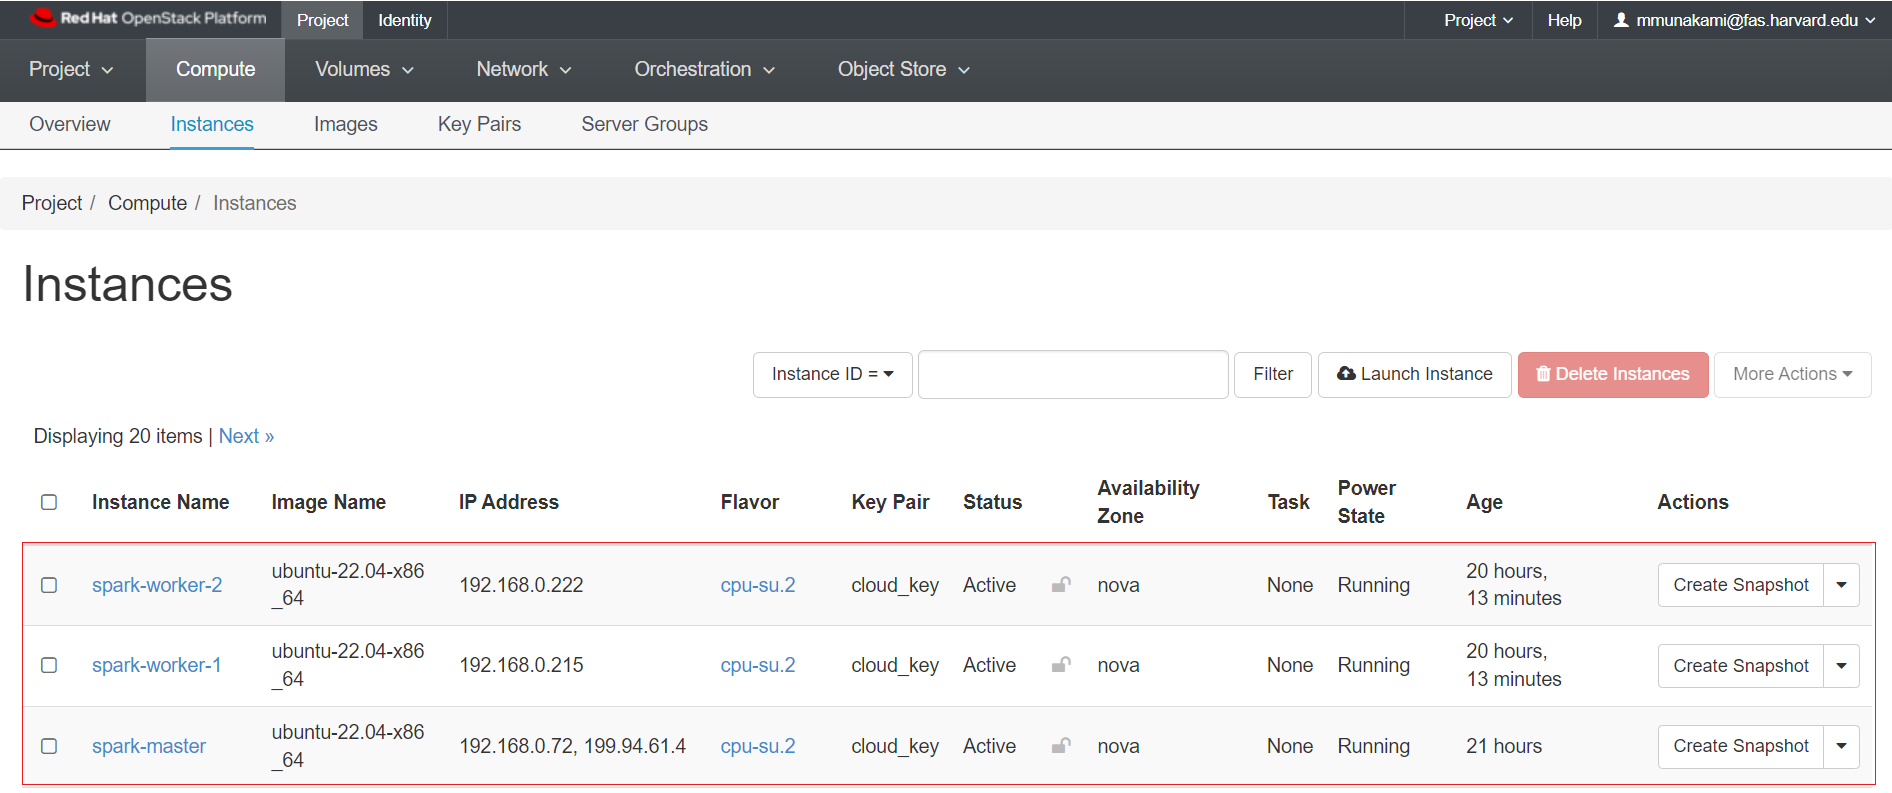
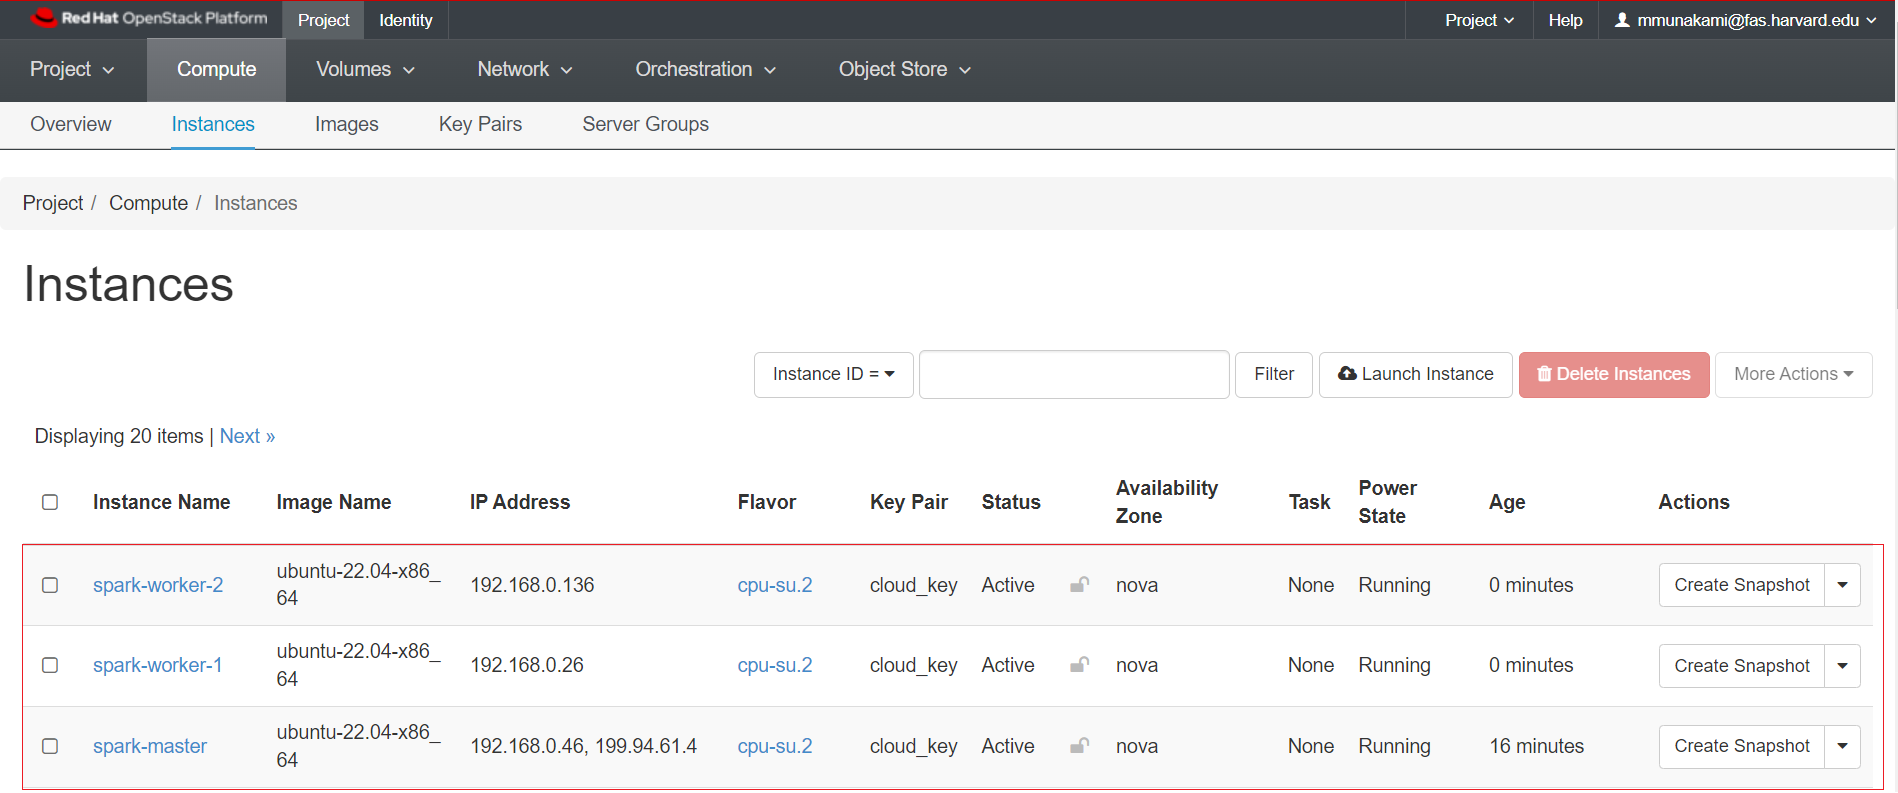
tested and verified with Amin

diff --git a/docs/other-tools/apache-spark/spark.md b/docs/other-tools/apache-spark/spark.md
@@ -70,7 +70,7 @@ this machine:
 - Download and unpack Apache Spark:
 
     ```sh
-    SPARK_VERSION="3.3.4"
+    SPARK_VERSION="3.4.2"
     APACHE_MIRROR="dlcdn.apache.org"
 
     wget https://$APACHE_MIRROR/spark/spark-$SPARK_VERSION/spark-$SPARK_VERSION-bin-hadoop3-scala2.13.tgz
@@ -82,6 +82,36 @@ this machine:
         Please ensure you are using the latest Spark version by modifying the
         `SPARK_VERSION` in the above script. Additionally, verify that the version
         exists on the `APACHE_MIRROR` website.
+
+- Create an SSH/RSA Key by running `ssh-keygen -t rsa` without using any passphrase:
+
+    ```sh
+    ssh-keygen -t rsa
+
+    Generating public/private rsa key pair.
+    Enter file in which to save the key (/home/ubuntu/.ssh/id_rsa):
+    Enter passphrase (empty for no passphrase):
+    Enter same passphrase again:
+    Your identification has been saved in /home/ubuntu/.ssh/id_rsa
+    Your public key has been saved in /home/ubuntu/.ssh/id_rsa.pub
+    The key fingerprint is:
+    SHA256:8i/TVSCfrkdV4+Jyqc00RoZZFSHNj8C0QugmBa7RX7U ubuntu@spark-master
+    The key's randomart image is:
+    +---[RSA 3072]----+
+    |      .. ..o..++o|
+    |     o  o.. +o.+.|
+    |    . +o  .o=+.oo|
+    |     +.oo  +o++..|
+    |    o EoS  .+oo  |
+    |     . o   .+B   |
+    |        .. +O .  |
+    |        o.o..o   |
+    |         o..     |
+    +----[SHA256]-----+
+    ```
+
+- Copy and append the content of **SSH public key** i.e. `~/.ssh/id_rsa.pub` to
+the `~/.ssh/authorized_keys` file.
 
 ### Create a Volume Snapshot of the master VM
 
@@ -134,43 +164,6 @@ Additionally, during launch, you
 
 - SSH login into the master VM again.
 
-- Switch to root user: `sudo su`
-
-- To allow SSH from **Spark master** to all other 2 **worker nodes**, generate
-SSH key for Spark master node running `ssh-keygen -t rsa`:
-
-    ```sh
-    ssh-keygen -t rsa
-
-    Generating public/private rsa key pair.
-    Enter file in which to save the key (/root/.ssh/id_rsa):
-    Enter passphrase (empty for no passphrase):
-    Enter same passphrase again:
-    Your identification has been saved in /root/.ssh/id_rsa
-    Your public key has been saved in /root/.ssh/id_rsa.pub
-    The key fingerprint is:
-    SHA256:OMsKP7EmhT400AJA/KN1smKt6eTaa3QFQUiepmj8dxroot@ansible-master
-    The key's randomart image is:
-    +---[RSA 3072]----+
-    |=o.oo.           |
-    |.o...            |
-    |..=  .           |
-    |=o.= ...         |
-    |o=+.=.o SE       |
-    |.+*o+. o. .      |
-    |.=== +o. .       |
-    |o+=o=..          |
-    |++o=o.           |
-    +----[SHA256]-----+
-    ```
-
-- Copy and append the content of **SSH public key** i.e. `~/.ssh/id_rsa.pub` to
-other worker nodes's `~/.ssh/authorized_keys` file. Please make sure you are logged
-in as `root` user by doing `sudo su` before you copy this public key to the end of
-`~/.ssh/authorized_keys` file of the other worker nodes. This will allow SSH
-connections to the worker nodes from the Spark master node's terminal by using
-`ssh <other_nodes_internal_ip>`.
-
 - Update the `/etc/hosts` file to specify all three hostnames with their corresponding
 internal IP addresses.
 
@@ -197,11 +190,11 @@ internal IP addresses.
     For example, the end of the `/etc/hosts` file looks like this:
 
     ```sh
-    cat /etc/hosts
+    sudo cat /etc/hosts
     ...
-    192.168.0.72 master
-    192.168.0.215 worker1
-    192.168.0.222 worker2
+    192.168.0.46 master
+    192.168.0.26 worker1
+    192.168.0.136 worker2
     ```
 
 - Verify that you can SSH into both worker nodes by using `ssh worker1` and
@@ -229,27 +222,27 @@ information:
         last `bin/java` part, i.e. `/usr/lib/jvm/java-11-openjdk-amd64`, to set
         it as the `JAVA_HOME` environment variable.
         Learn more about other Spark settings that can be configured through environment
-        variables [here](https://spark.apache.org/docs/3.3.4/configuration.html#environment-variables).
+        variables [here](https://spark.apache.org/docs/3.4.2/configuration.html#environment-variables).
 
     For example:
 
     ```sh
-    echo "export SPARK_MASTER_HOST='192.168.0.72'" >> spark-env.sh
+    echo "export SPARK_MASTER_HOST='192.168.0.46'" >> spark-env.sh
     echo "export JAVA_HOME=/usr/lib/jvm/java-11-openjdk-amd64" >> spark-env.sh
     ```
 
 - Source the changed environment variables file i.e. `spark-env.sh`:
 
-```sh
-  source spark-env.sh
-```
+    ```sh
+    source spark-env.sh
+    ```
 
 - Create a file named `slaves` in the Spark configuration directory (i.e.,
 `/usr/local/spark/conf/`) that specifies all 3 hostnames (nodes) as specified in
 `/etc/hosts`:
 
     ```sh
-    sudo cat > slaves
+    sudo cat slaves
     master
     worker1
     worker2
@@ -278,7 +271,11 @@ Apache Spark provides a suite of
 [web user interfaces (WebUIs)](https://spark.apache.org/docs/latest/web-ui.html)
 that you can use to monitor the status and resource consumption of your Spark cluster.
 
-- You can connect to the **Spark web UI** using
+!!! info "Different types of Spark Web UI"
+    Apache Spark provides different web UIs: **Master web UI**, **Worker web UI**,
+    and **Application web UI**.
+
+- You can connect to the **Master web UI** using
 [SSH Port Forwarding, aka SSH Tunneling](https://www.ssh.com/academy/ssh/tunneling-example)
 i.e. **Local Port Forwarding** from your local machine's terminal by running:
 
@@ -297,24 +294,35 @@ i.e. **Local Port Forwarding** from your local machine's terminal by running:
     ```
 
 - Once the SSH Tunneling is successful, please do not close or stop the terminal
-where you are running the SSH Tunneling. Instead, log in to the Spark web UI
+where you are running the SSH Tunneling. Instead, log in to the Master web UI
 using your web browser: `http://localhost:<Your_Preferred_Port>` i.e. `http://localhost:8080`.
 
-The Spark web UI appears as shown below:
+The Master web UI offers an overview of the Spark cluster, showcasing the following
+details:
 
-![The Spark web UI](images/spark-web-ui.png)
+- Master URL and REST URL
+- Available CPUs and memory for the Spark cluster
+- Status and allocated resources for each worker
+- Details on active and completed applications, including their status, resources,
+and duration
+- Details on active and completed drivers, including their status and resources
 
-The Spark web UI also provides an overview of the applications. Through the
-Spark web UI, you can easily identify the allocated vCPU (Core) and memory resources
-for both the Spark cluster and individual applications.
+The Master web UI appears as shown below when you navigate to `http://localhost:<Your_Preferred_Port>`
+i.e. `http://localhost:8080` from your web browser:
 
-## Preparing a Job for Execution and Examination
+![The Master web UI](images/spark-web-ui.png)
+
+The Master web UI also provides an overview of the applications. Through the
+Master web UI, you can easily identify the allocated vCPU (Core) and memory
+resources for both the Spark cluster and individual applications.
+
+## Preparing Jobs for Execution and Examination
 
 - To run jobs from `/usr/local/spark`, execute the following commands:
 
     ```sh
     cd /usr/local/spark
-    SPARK_VERSION="3.3.4"
+    SPARK_VERSION="3.4.2"
     ```
 
 - **Single Node Job:**
@@ -328,18 +336,20 @@ for both the Spark cluster and individual applications.
 - **Cluster Mode Job:**
 
     Let's submit a longer and more complex job with many tasks that will be
-    distributed among the multi-node cluster, and then view the Spark web UI:
+    distributed among the multi-node cluster, and then view the Master web UI:
 
     ```sh
     ./bin/spark-submit --class org.apache.spark.examples.SparkPi --master spark://master:7077 examples/jars/spark-examples_2.13-$SPARK_VERSION.jar 1000
     ```
 
-    While the job is running, you will see a similar view on the Spark web UI under
+    While the job is running, you will see a similar view on the Master web UI under
     the "Running Applications" section:
 
     ![Spark Running Application](images/spark-running-applications.png)
 
     Once the job is completed, it will show up under the "Completed Applications"
-    section on the Spark web UI.
+    section on the Master web UI as shown below:
+
+    ![Spark Completed Application](images/spark-completed-applications.png)
 
 ---
